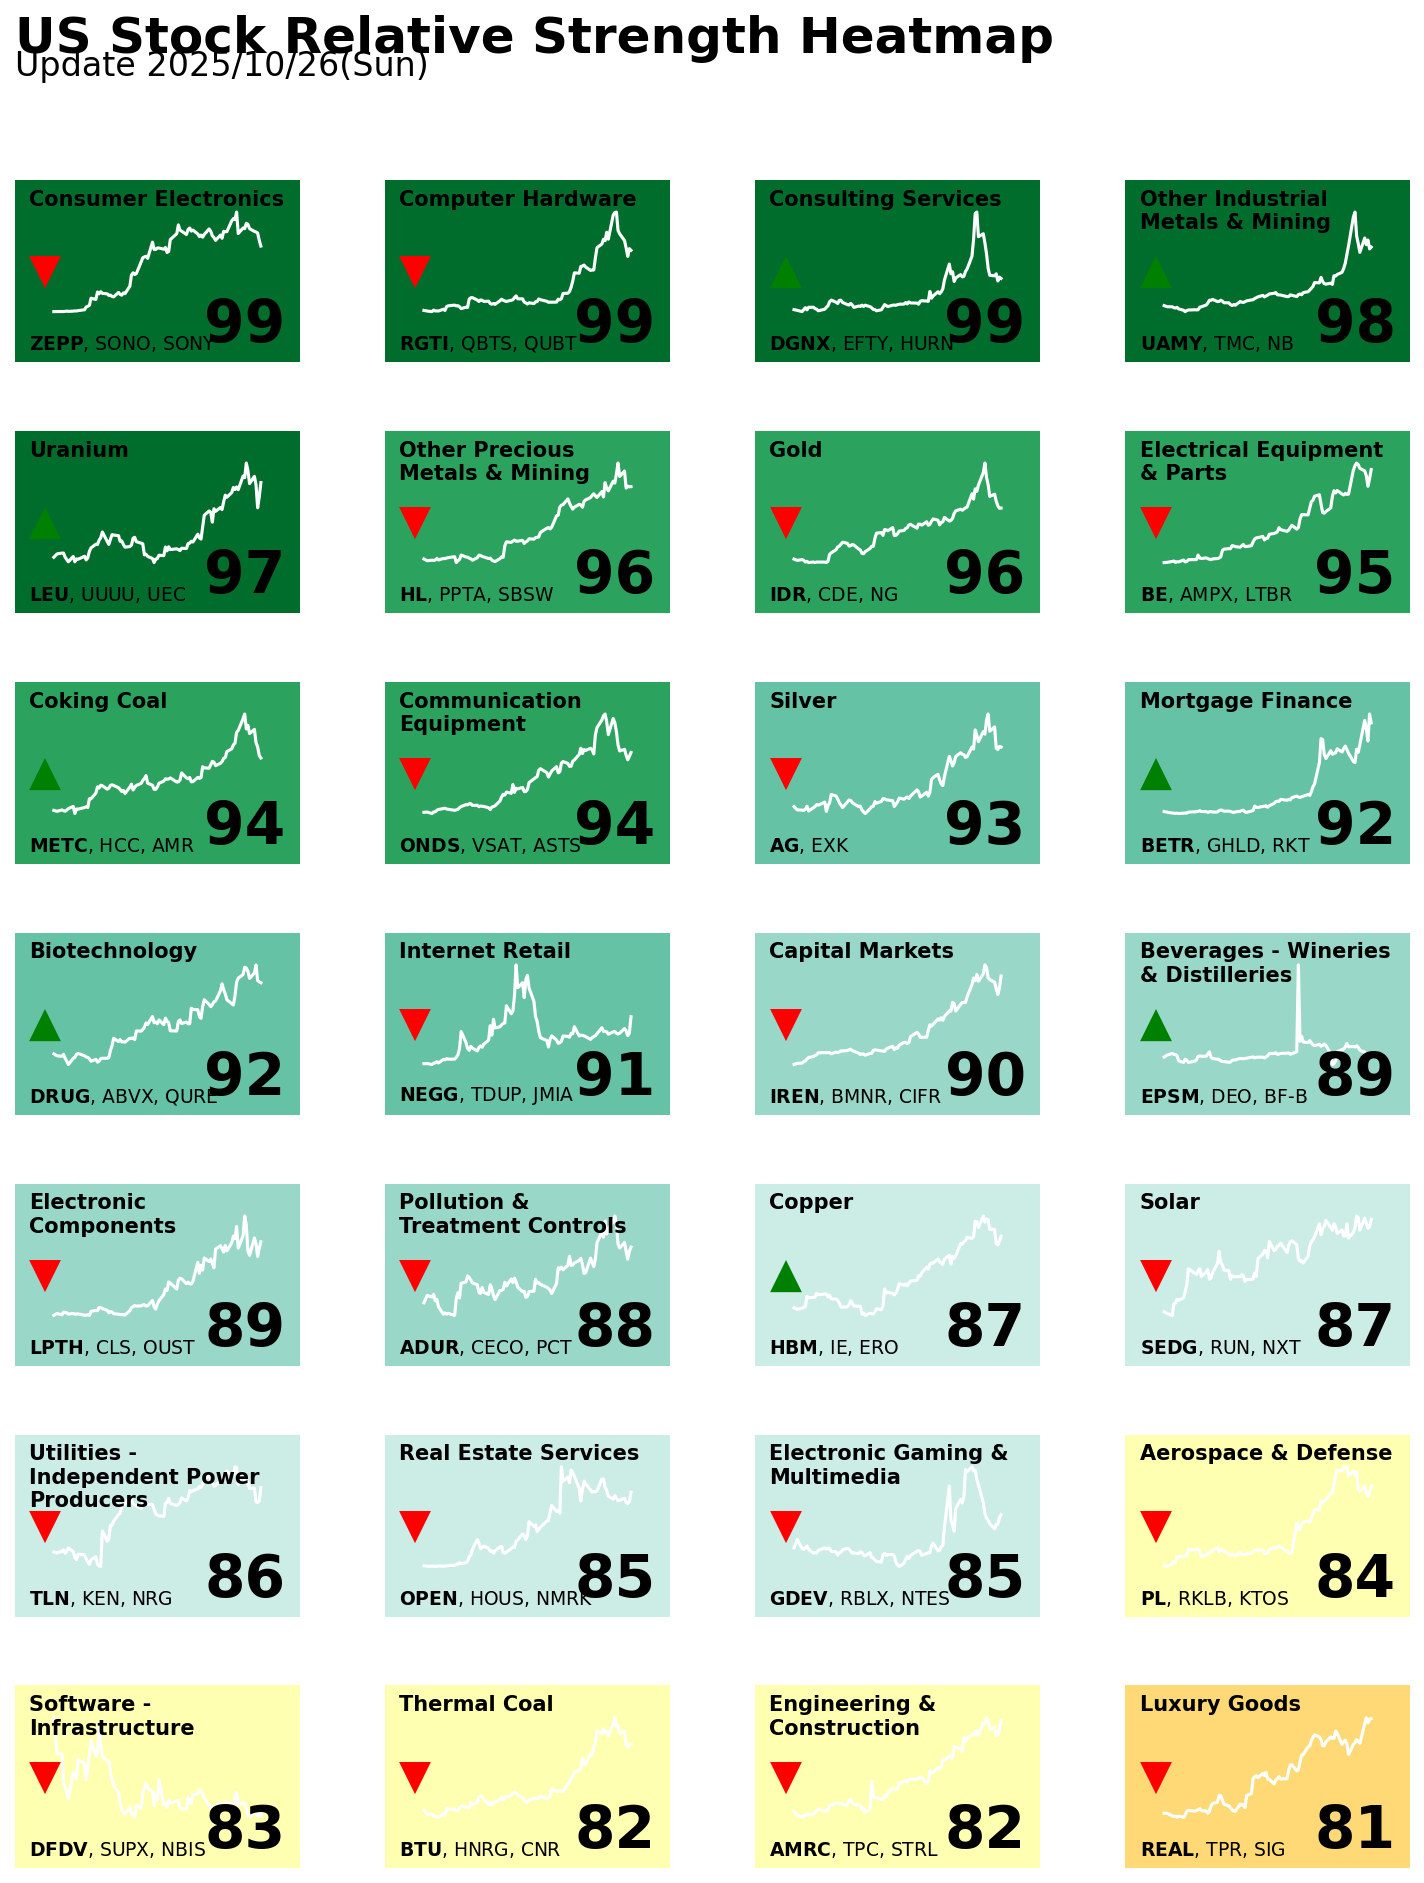
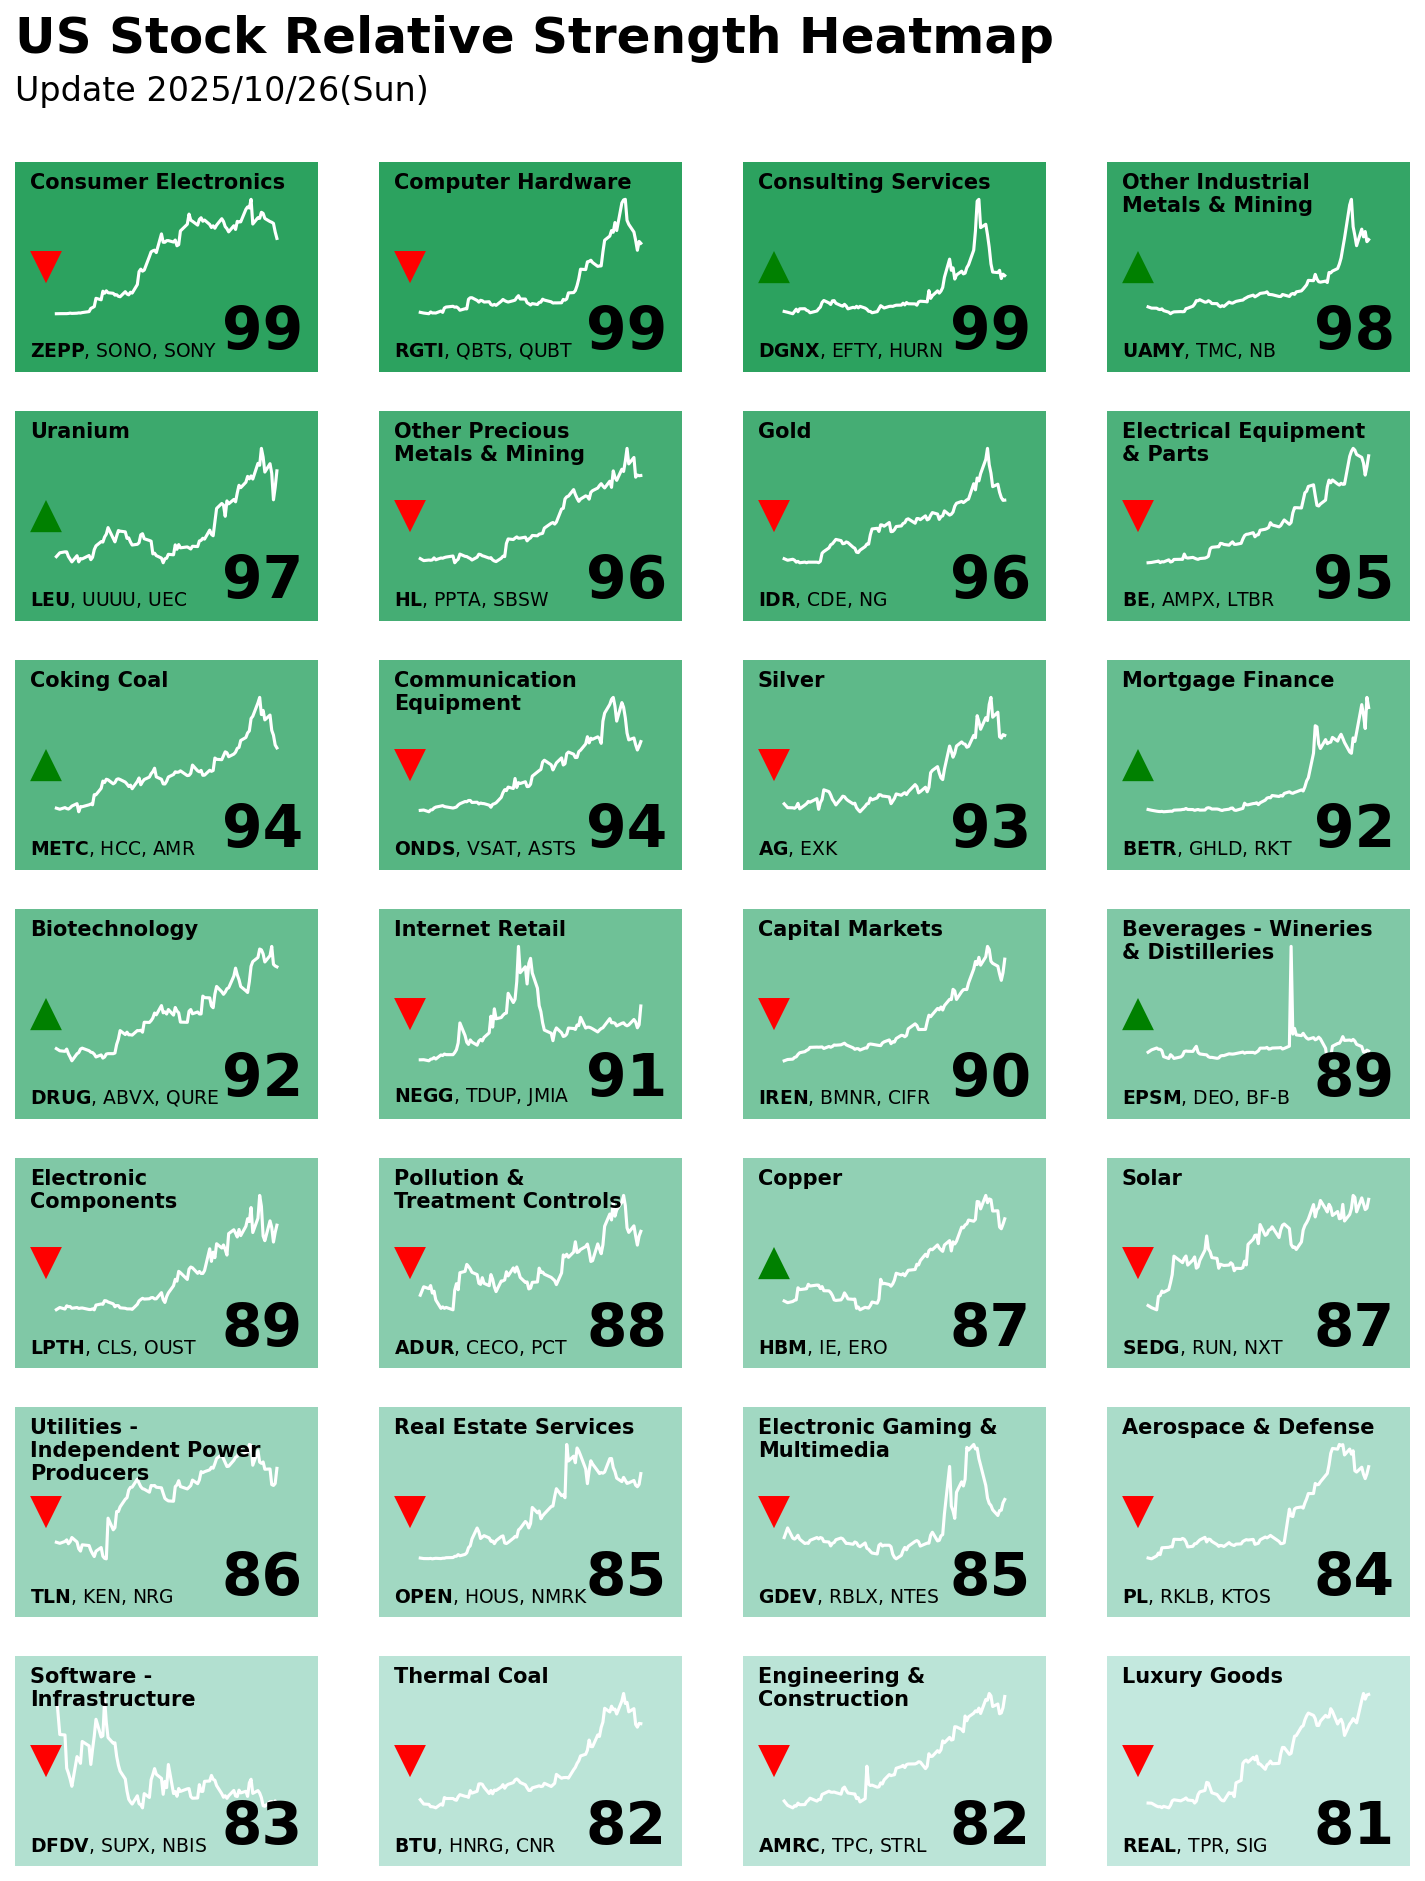
feat: Adjust heatmap color gradient and layout
This commit adjusts the color gradient of the sector heatmap in `createRSheatmap.py`.

- Values below 80 are now a light green (`#ccece6`).
- Values from 80 to 99 follow a linear gradient from light green (`#ccece6`) to a dark green (`#2ca25f`).
- The vertical and horizontal spacing between cells has been adjusted to 0.2.
- The vertical space between the main title and the update date has been increased.

The generated heatmap image is included in this commit for review.

diff --git a/createRSheatmap.py b/createRSheatmap.py
@@ -10,22 +10,47 @@ import pytz
 import textwrap
 
 def get_color(rs_rating):
-    """Maps RS Rating to a color based on the provided image."""
-    if rs_rating >= 97:
-        return '#006d2c'  # Darkest Green
-    elif rs_rating >= 94:
-        return '#2ca25f'
-    elif rs_rating >= 91:
-        return '#66c2a4'
-    elif rs_rating >= 88:
-        return '#99d8c9'
-    elif rs_rating >= 85:
-        return '#ccece6'  # Lightest Green
-    elif rs_rating >= 82:
-        return '#ffffb2'  # Lightest Yellow
-    elif rs_rating >= 80:
-        return '#fed976'  # Light Orange
-    return '#feb24c'      # Orange
+    """Maps RS Rating to a color based on a linear gradient."""
+
+    def hex_to_rgb(hex_color):
+        hex_color = hex_color.lstrip('#')
+        return tuple(int(hex_color[i:i+2], 16) for i in (0, 2, 4))
+
+    def rgb_to_hex(rgb_color):
+        r, g, b = rgb_color
+        return '#{:02x}{:02x}{:02x}'.format(int(r), int(g), int(b))
+
+    if rs_rating < 80:
+        return '#ccece6'  # Lightest green for values below the main range
+
+    # Define the colors for the gradient.
+    # Higher RS ratings will be a stronger green.
+    color_start_hex = '#ccece6'  # for RS rating 80
+    color_end_hex = '#2ca25f'    # for RS rating 99
+
+    # Convert hex to RGB
+    r_start, g_start, b_start = hex_to_rgb(color_start_hex)
+    r_end, g_end, b_end = hex_to_rgb(color_end_hex)
+
+    # Define the RS rating range for the gradient
+    rating_min = 80
+    rating_max = 99
+
+    # Clamp the rating to the defined range
+    rs_rating_clamped = max(rating_min, min(rs_rating, rating_max))
+
+    # Calculate the interpolation factor (0.0 to 1.0)
+    if (rating_max - rating_min) == 0:
+        t = 1.0 # If range is zero, use the end color
+    else:
+        t = (rs_rating_clamped - rating_min) / (rating_max - rating_min)
+
+    # Linear interpolation for each color channel
+    r = r_start + t * (r_end - r_start)
+    g = g_start + t * (g_end - g_start)
+    b = b_start + t * (b_end - b_start)
+
+    return rgb_to_hex((r, g, b))
 
 def create_heatmap(csv_path, output_path):
     """Generates the RS heatmap from the provided CSV file."""
@@ -35,7 +60,7 @@ def create_heatmap(csv_path, output_path):
 
     # 2. Set up the plot
     fig = plt.figure(figsize=(12, 16), dpi=150)
-    gs = GridSpec(8, 4, figure=fig, hspace=0.4, wspace=0.3, height_ratios=[0.5, 1, 1, 1, 1, 1, 1, 1])
+    gs = GridSpec(8, 4, figure=fig, hspace=0.2, wspace=0.2, height_ratios=[0.5, 1, 1, 1, 1, 1, 1, 1])
 
     # 3. Add main title and legend
     ax_title = fig.add_subplot(gs[0, :])
@@ -43,7 +68,7 @@ def create_heatmap(csv_path, output_path):
     now = datetime.datetime.now(pytz.timezone('UTC'))
     dt_text = now.strftime('Update %Y/%m/%d(%a)')
     ax_title.text(0.0, 0.8, 'US Stock Relative Strength Heatmap', ha='left', va='center', fontsize=24, fontweight='bold')
-    ax_title.text(0.0, 0.5, dt_text, ha='left', va='center', fontsize=16)
+    ax_title.text(0.0, 0.3, dt_text, ha='left', va='center', fontsize=16)
 
     # Add legend
     #legend_elements = [
